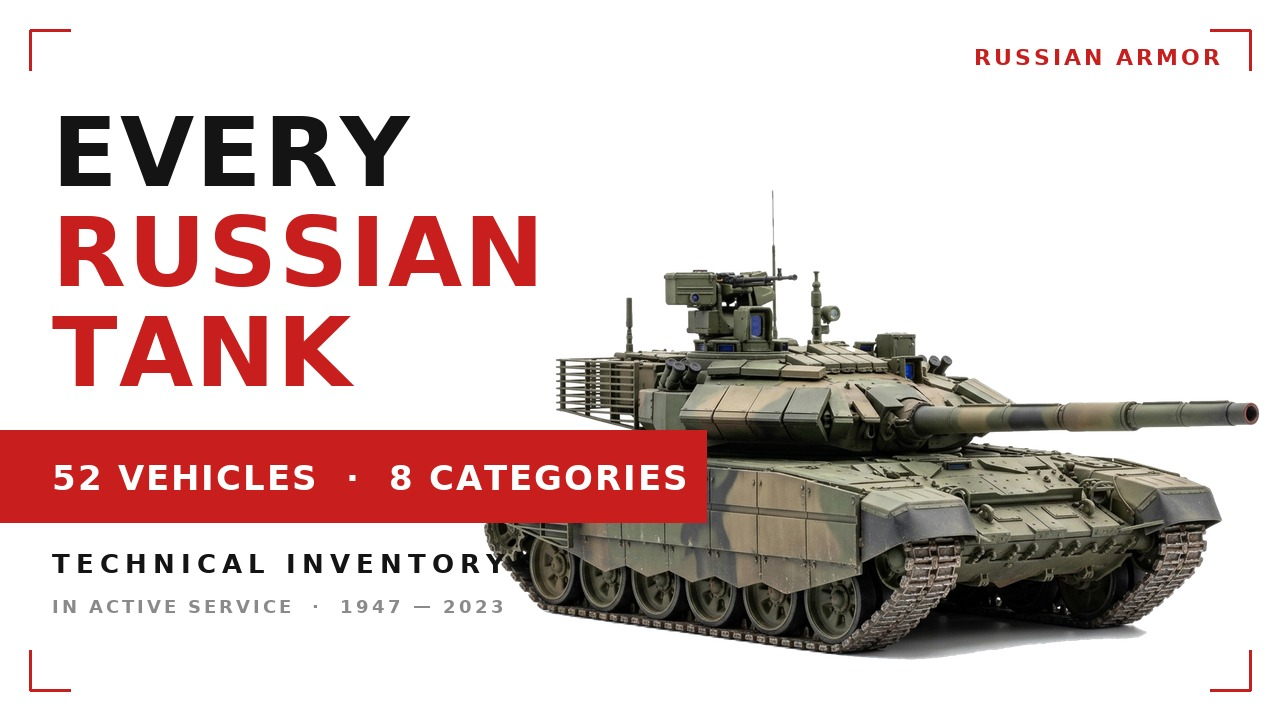
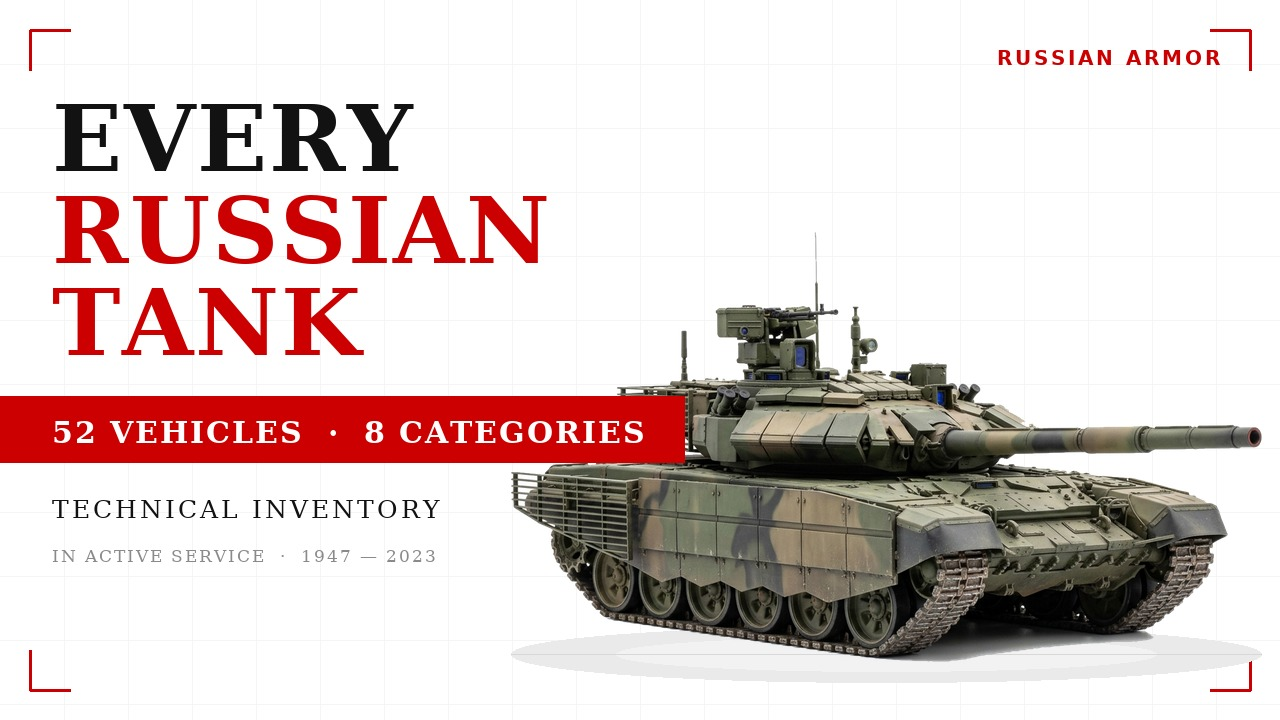
style: serif thumbnail to match the catalogue system; doc numbers

diff --git a/pipeline/thumbnail.py b/pipeline/thumbnail.py
@@ -13,33 +13,39 @@ W, H = 1280, 720
 def build():
     canvas = Image.new("RGBA", (W, H), R.WHITE + (255,))
     draw = ImageDraw.Draw(canvas)
+    R.background_grid(draw, step=64)
 
     for (x, y, dx, dy) in [(30, 30, 1, 1), (W - 30, 30, -1, 1), (30, H - 30, 1, -1), (W - 30, H - 30, -1, -1)]:
         draw.line([(x, y), (x + dx * 40, y)], fill=R.RED, width=3)
         draw.line([(x, y), (x, y + dy * 40)], fill=R.RED, width=3)
 
+    # exhibit on the right, kept clear of the type column
     hero = R.cutout(R.render_path("renders", "t90m"), 980)
-    hh = 470
+    hh = 430
     hw = int(hero.width * hh / hero.height)
     hero = hero.resize((hw, hh), Image.LANCZOS)
-    canvas.alpha_composite(hero, (W - hw - 20, 190))
+    hx, hy = W - hw - 18, 232
+    R.studio_ground(draw, hx + hw // 2, hy + hh - 8, int(hw * 0.5))
+    canvas.alpha_composite(hero, (hx, hy))
 
-    f1 = R.font(R.F_BOLD, 96)
-    R.tracked(draw, (52, 96), "EVERY", f1, R.INK, tracking=2)
-    R.tracked(draw, (52, 196), "RUSSIAN", f1, R.RED, tracking=2)
-    R.tracked(draw, (52, 296), "TANK", f1, R.RED, tracking=2)
+    f1 = R.font(R.F_SB, 92)
+    R.tracked(draw, (52, 84), "EVERY", f1, R.INK, tracking=2)
+    R.tracked(draw, (52, 176), "RUSSIAN", f1, R.RED, tracking=2)
+    R.tracked(draw, (52, 268), "TANK", f1, R.RED, tracking=2)
 
-    draw.rectangle([0, 430, 706, 522], fill=R.RED)
-    f2 = R.font(R.F_BOLD, 34)
-    R.tracked(draw, (52, 458), "52 VEHICLES  ·  8 CATEGORIES", f2, R.WHITE, tracking=2)
+    f2 = R.font(R.F_SB, 30)
+    band_txt = "52 VEHICLES  ·  8 CATEGORIES"
+    bw = R.text_width(draw, band_txt, f2, 2)
+    draw.rectangle([0, 396, 52 + bw + 40, 462], fill=R.RED)
+    R.tracked(draw, (52, 414), band_txt, f2, R.WHITE, tracking=2)
 
-    f3 = R.font(R.F_BOLD, 26)
-    R.tracked(draw, (52, 548), "TECHNICAL INVENTORY", f3, R.INK, tracking=6)
-    f4 = R.font(R.F_BOLD, 18)
-    R.tracked(draw, (52, 596), "IN ACTIVE SERVICE  ·  1947 — 2023", f4, R.GREY, tracking=3)
+    f3 = R.font(R.F_SR, 25)
+    R.tracked(draw, (52, 494), "TECHNICAL INVENTORY", f3, R.INK, tracking=3)
+    f4 = R.font(R.F_SR, 17)
+    R.tracked(draw, (52, 546), "IN ACTIVE SERVICE  ·  1947 — 2023", f4, R.GREY, tracking=2)
 
-    f5 = R.font(R.F_BOLD, 22)
-    R.tracked(draw, (W - 60, 44), "RUSSIAN ARMOR", f5, R.RED, tracking=3, anchor="ra")
+    f5 = R.font(R.F_BOLD, 20)
+    R.tracked(draw, (W - 60, 46), "RUSSIAN ARMOR", f5, R.RED, tracking=3, anchor="ra")
 
     os.makedirs("output", exist_ok=True)
     canvas.convert("RGB").save("output/thumbnail.jpg", quality=92)

diff --git a/output/style-brief-2-implementation.md b/output/style-brief-2-implementation.md
@@ -2,7 +2,7 @@
 
 **تاريخ:** 2026-11-07 · **الفرع:** `arena/aaa92f07-figo`
 **المرجع:** `plan/remake-plan-2.md` (النسخة المرفقة) — أُضيفت إلى المستودع كما هي.
-**المخرج المطبَّق عليه:** `output/russian-armor-inventory.mp4` (إعادة بناء كاملة) + `output/shorts-8-vehicles.mp4`
+**المخرج المطبَّق عليه:** `output/russian-armor-inventory.mp4` (إعادة بناء كاملة) · `output/shorts-8-vehicles.mp4` · `output/thumbnail.jpg`
 
 ---
 
@@ -76,4 +76,6 @@
 
 - الانتقالات: 8 wipes مؤكدة بالإطار في 22.44 · 171.09 · 258.41 · 319.67 · 362.28 · 464.71 · 536.28 · 704.40 (حافة حمراء متحركة).
 - التزامن: لم تتغيّر أي نقطة قطع عن السرد (الـ wipe يأخذ 0.5 ث من **مدة عرض الكرت السابق**، لا من زمن البرنامج).
-- الماستر: 1920×1080 · 30fps · H.264 High · AAC 192k · faststart.
+- الماستر: **14:53.73** · 1920×1080 · 30fps · H.264 High · AAC 192k 48kHz · faststart · 93 MB.
+- الشورتس: أُعيد بناؤه بنفس النظام (1080×1920 · 1:08.90 · 3.4 MB) — سيريف + شبكة + قرص دوّار.
+- الثمبنيل: أُعيد بناؤه (1280×720) بالسيريف والشبكة، مع إعادة توزيع العناصر لمنع أي تداخل بين النص والمركبة.
